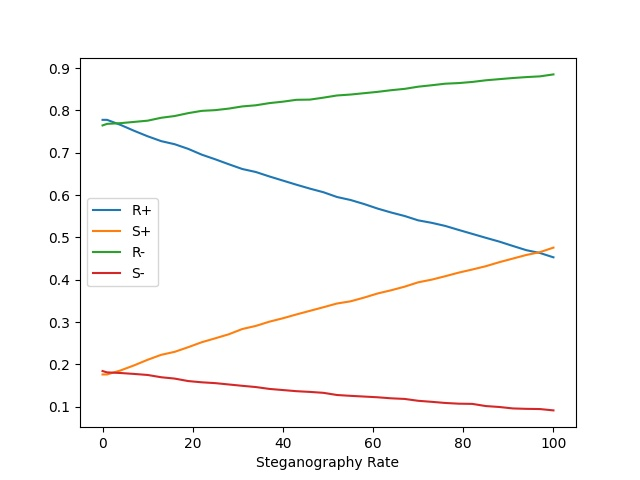
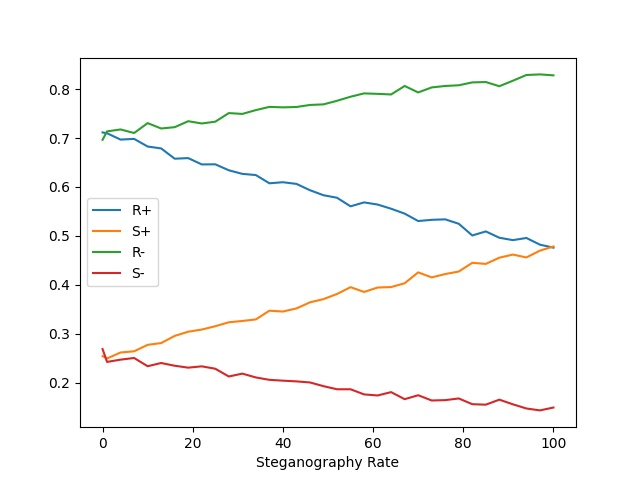
fix bugs

diff --git a/rs_analysis.py b/rs_analysis.py
@@ -1,6 +1,7 @@
 #edited by mqa and zjt
 import numpy as np
 import matplotlib.pyplot as plt
+import random
 import sys
 sys.path.append("D:\计算机\WORKS\信息隐藏技术\datahide_lab")
 from bmp_stegano import *
@@ -94,8 +95,8 @@ class rs_analysis:
     #edited by mqa
     def zigzag(self):
         self.zigzag_data = {'pre':[[self.image[self.zig[j][0] + self.block(i)[1], self.zig[j][1] + self.block(i)[2], self.block(i)[0]] for j in range(self.block_size * self.block_size)] for i in range(self.block_count)]}
-        self.zigzag_data['pos'] = [[block[i] + (-1) ** (block[i] % 2) for i in range(len(block))] for block in self.zigzag_data['pre']]
-        self.zigzag_data['neg'] = [[block[i] - (-1) ** (block[i] % 2) for i in range(len(block))] for block in self.zigzag_data['pre']]
+        self.zigzag_data['pos'] = [[block[i] + ((-1) ** (block[i] % 2)) * random.randint(0, 1) for i in range(len(block))] for block in self.zigzag_data['pre']]
+        self.zigzag_data['neg'] = [[block[i] - ((-1) ** (block[i] % 2)) * random.randint(0, 1) for i in range(len(block))] for block in self.zigzag_data['pre']]
 
     #edited by mqa
     def f(self):
